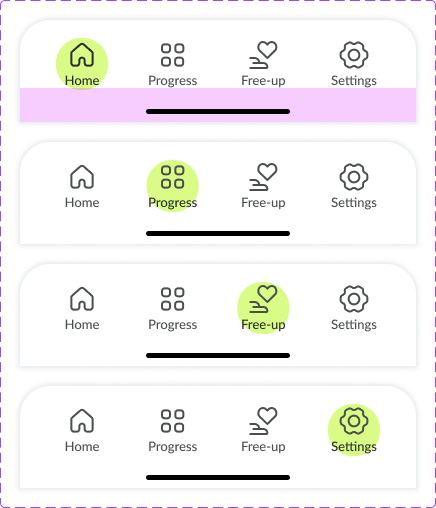
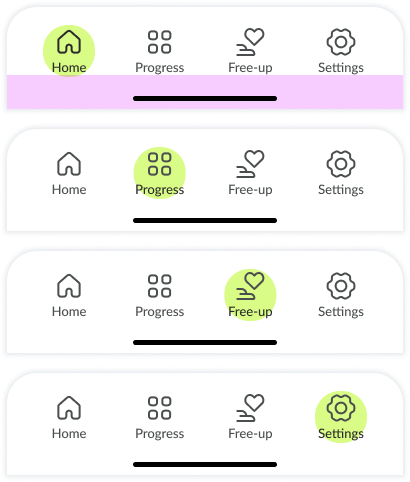
fix(sorta): blend nav design-system image — crop Figma border, drop white frame
navbar.png is transparent; removed its baked-in dashed selection border and made
the nav slide's frame transparent so the bars blend onto the slide background.

diff --git a/src/app/globals.css b/src/app/globals.css
@@ -181,6 +181,12 @@ img {
   object-position: center top;
 }
 
+/* a design-system frame with no card backing — image blends onto the slide */
+.bp-frame.is-plain {
+  background: transparent;
+  box-shadow: none;
+}
+
 /* design-system carousel frame images — consistent height across slides */
 .ds-img {
   display: block;

diff --git a/src/app/sorta/page.tsx b/src/app/sorta/page.tsx
@@ -270,7 +270,7 @@ export default function SortaPage() {
                 <div className="dscar-slide">
                   <div className="dscar-card"><div className="bookpage cream"><span className="bp-deco" />
                     <div className="bp-main"><div className="bp-num">SECTION 04</div><h3 className="bp-title">4.0<br />Nav</h3><p className="bp-desc">A four-tab bar — Discover, Connect, Community, Profile — keeps the whole app one thumb-tap away, always calm, never crowded.</p></div>
-                    <div className="bp-content"><div className="bp-frame"><ImageSlot id="ds-nav" className="ds-img" placeholder="Navigation bar" fit="contain" /></div></div>
+                    <div className="bp-content"><div className="bp-frame is-plain"><ImageSlot id="ds-nav" className="ds-img" placeholder="Navigation bar" fit="contain" /></div></div>
                     <div className="bp-foot"><span className="lbl">Design system</span><span className="pg">04</span></div>
                   </div></div>
                 </div>